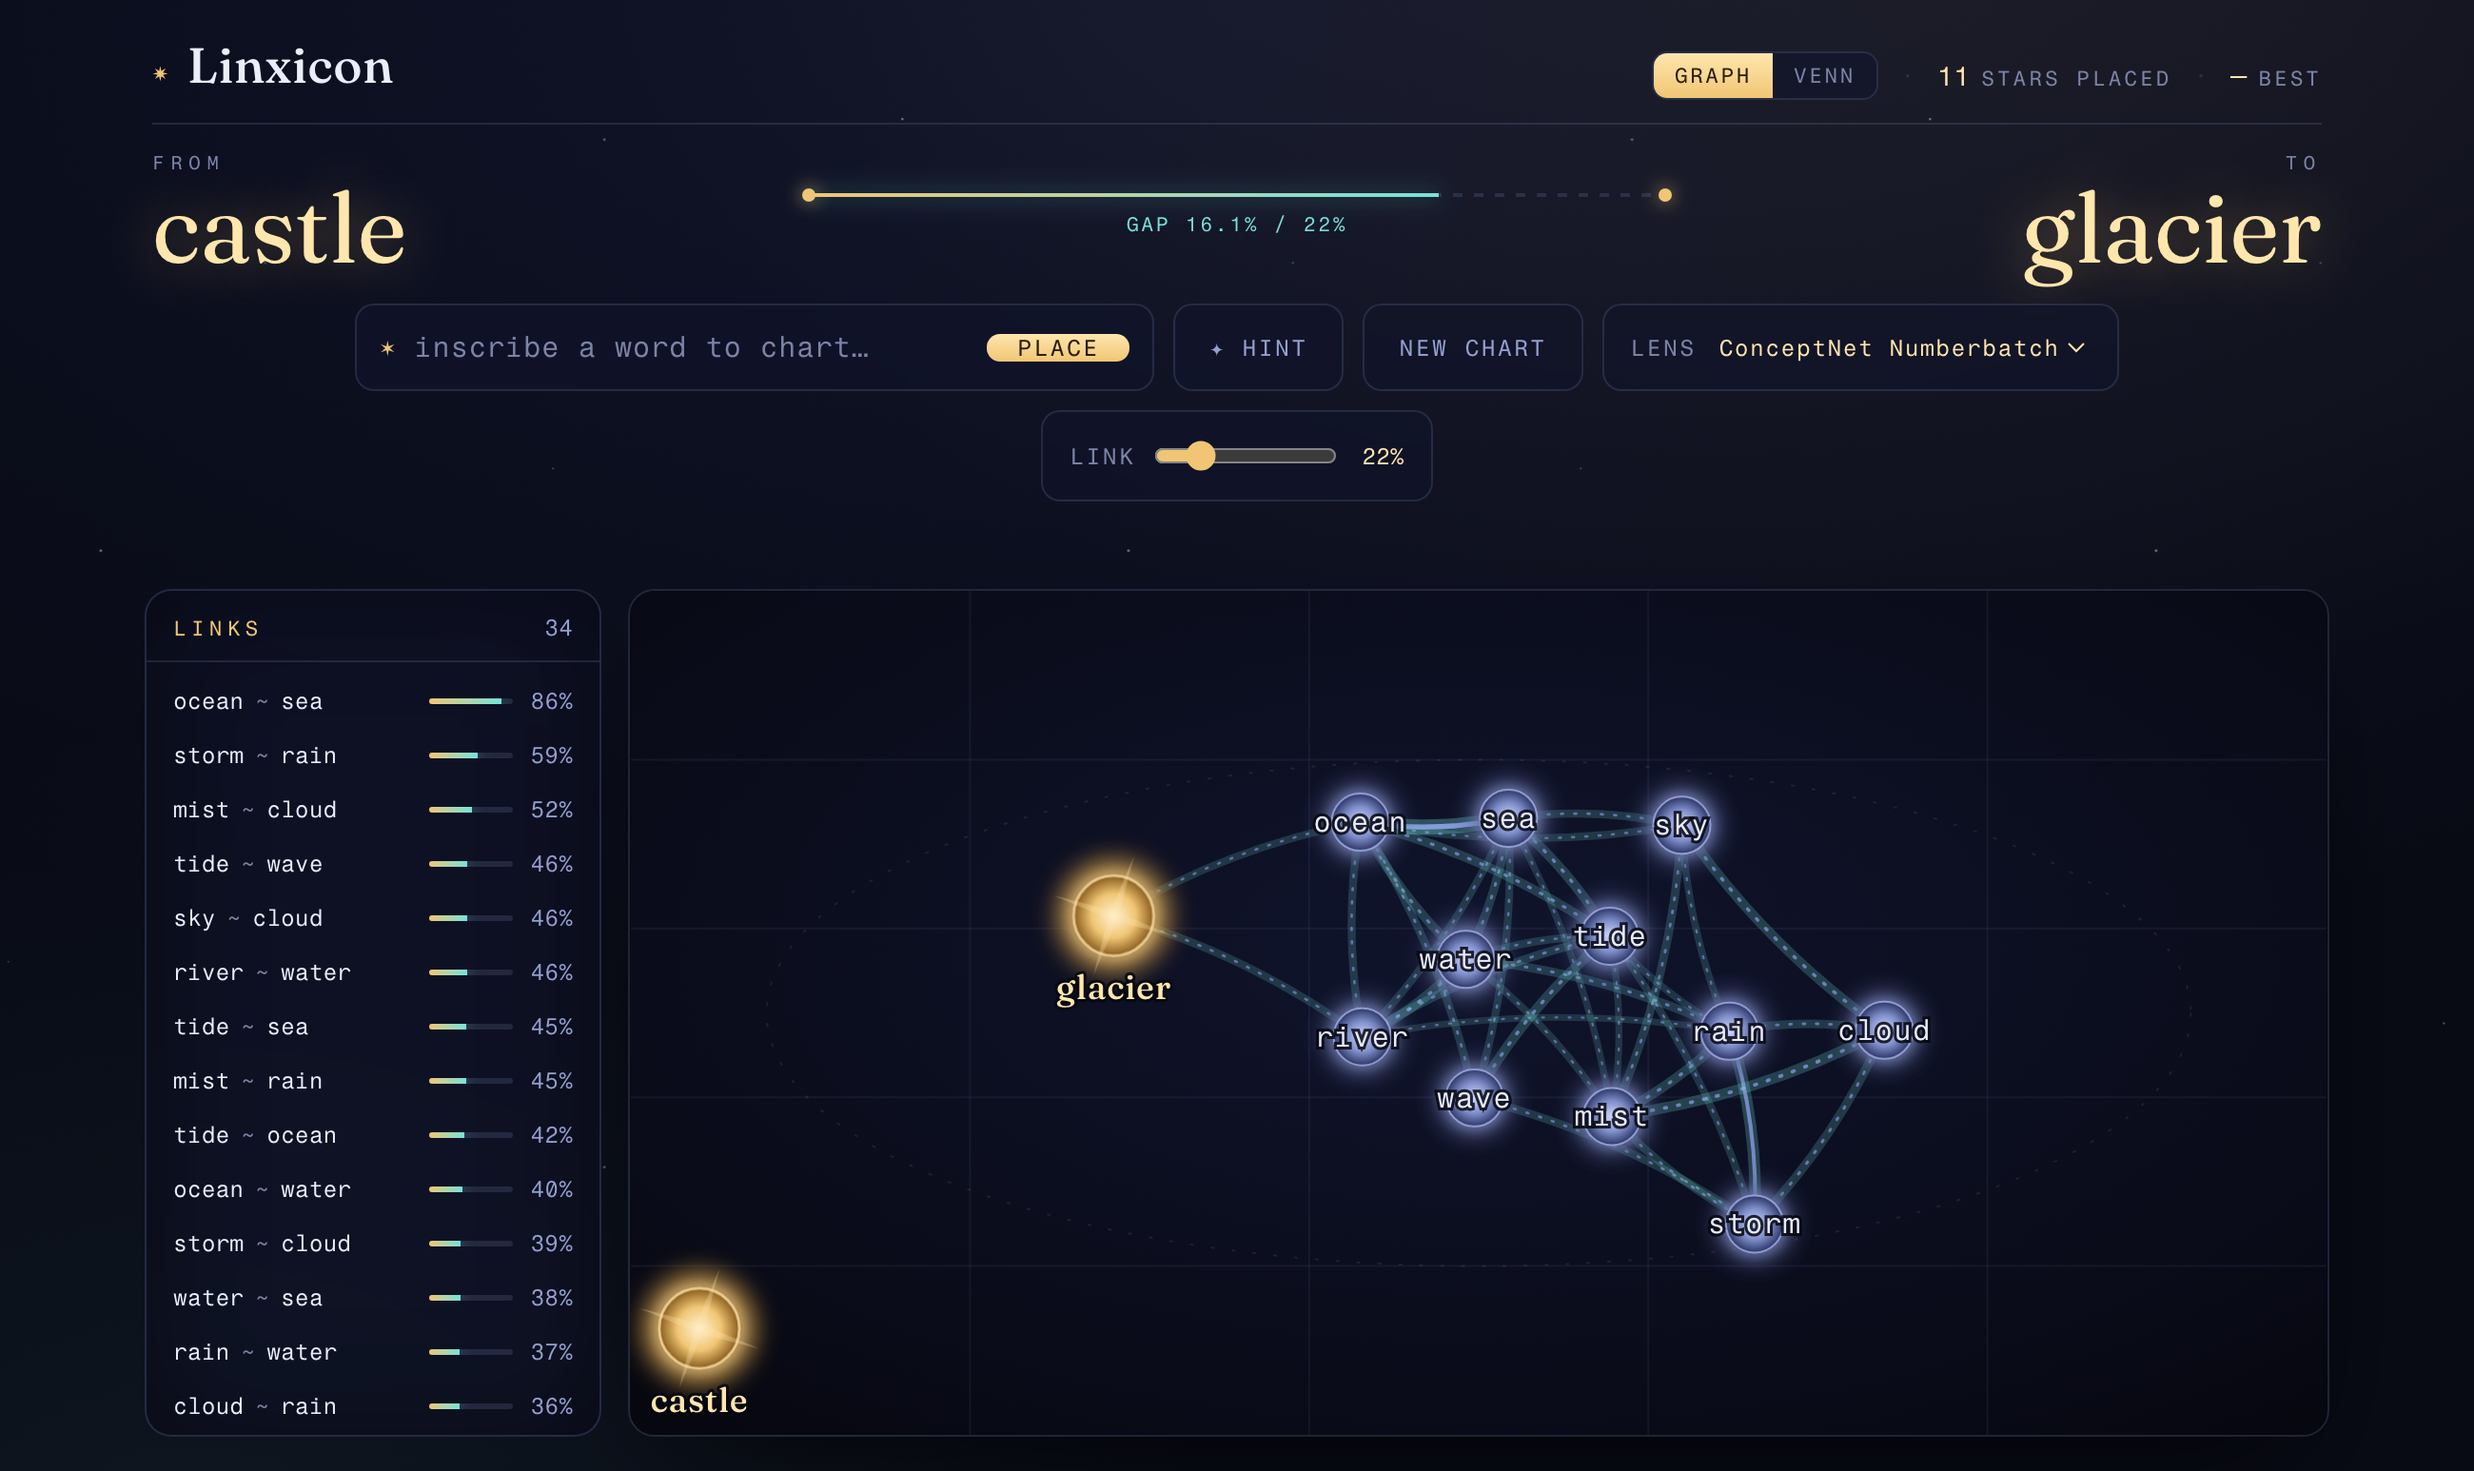
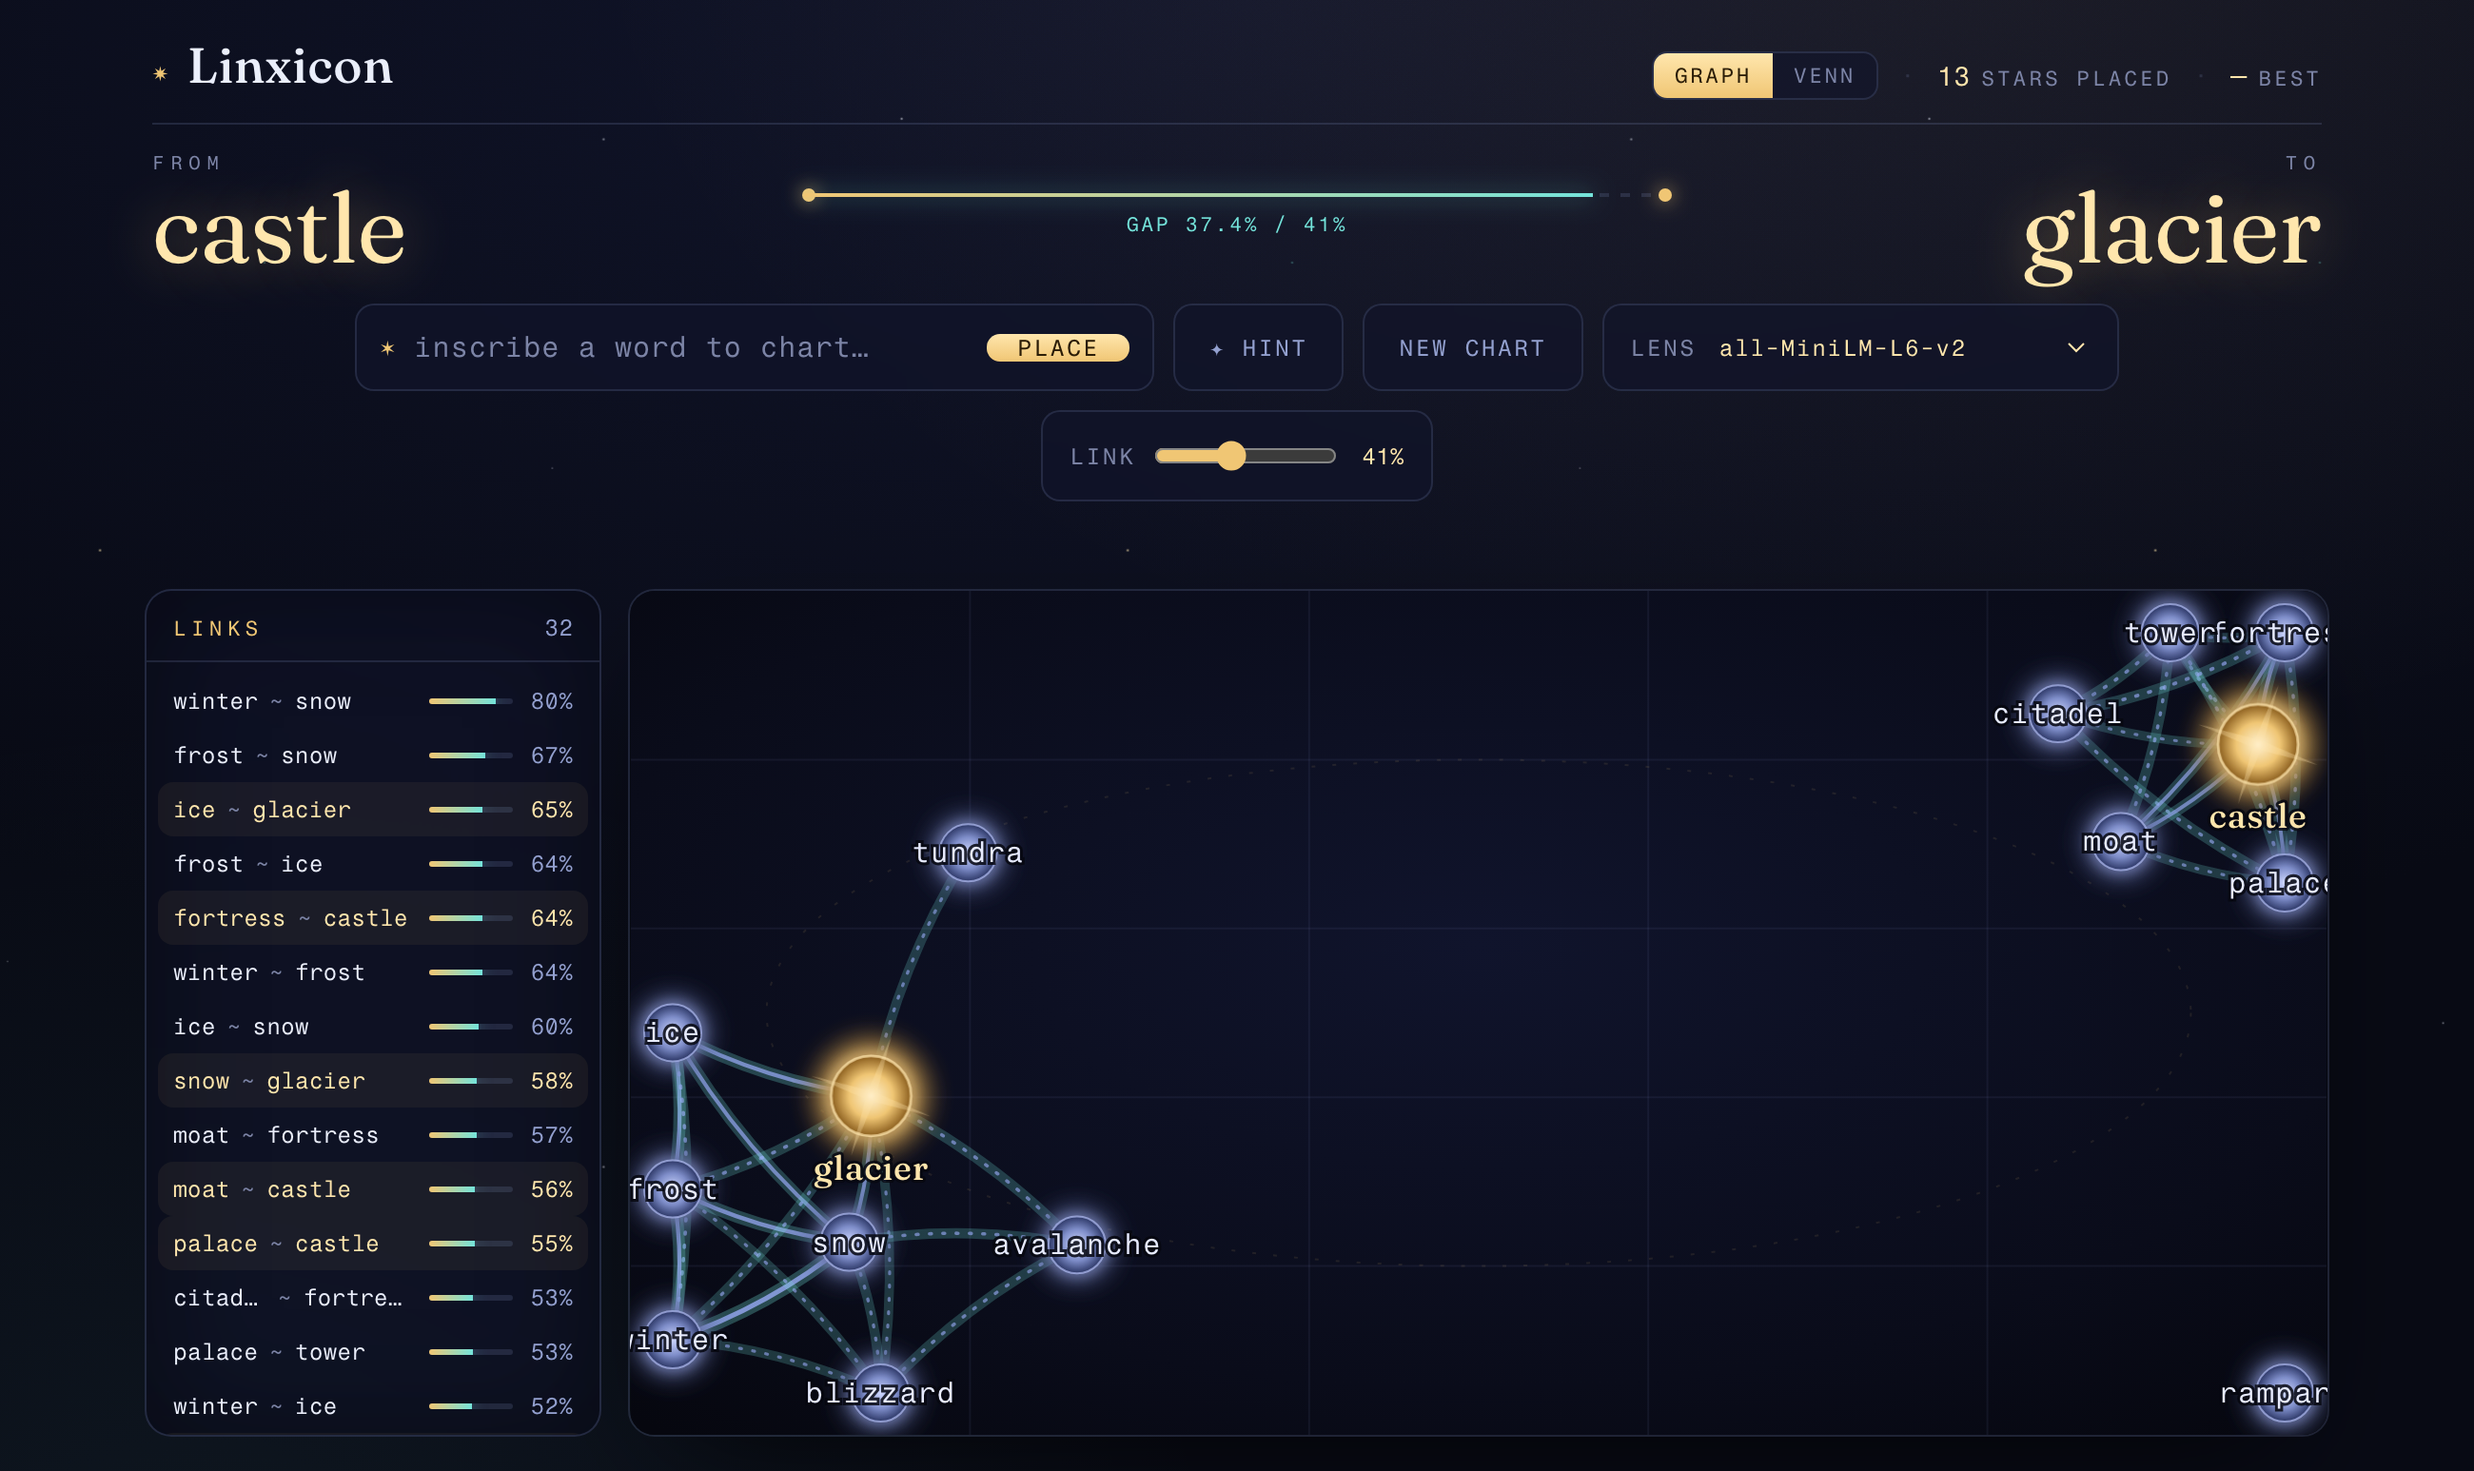
docs: regenerate screenshots on MiniLM showing real connections at 0.41
The previous shots were captured under the old Numberbatch 0.41 default, which
rarely links — boards looked disconnected. Recapture on MiniLM (which clears 0.41)
with connected castle/glacier clusters, and note the per-lens behavior in the README.

diff --git a/README.md b/README.md
@@ -76,8 +76,9 @@ npm run build      # static build to dist/
   `/api/hint` (best bridging dictionary word between two anchors).
 - `src/lib/embeddings.ts` — client to that API, with an in-memory + IndexedDB vector
   cache (`src/lib/embedder.ts`).
-- `src/lib/models.ts` — per-model similarity thresholds (Numberbatch runs colder than
-  MiniLM); the UI can override these at runtime.
+- `src/lib/models.ts` — per-model connect thresholds (both default to 0.41); the UI's
+  `link %` slider overrides them at runtime. Note MiniLM links readily at 0.41, while
+  ConceptNet Numberbatch runs colder and rarely clears it — pick the lens accordingly.
 - `src/lib/game.ts` — Svelte store wiring everything together; persists stats and
   per-puzzle words to `localStorage` (`src/lib/stats.ts`, `src/lib/savedGames.ts`).
 - `src/components/` — `Graph.svelte` (constellation), `VennBoard.svelte` (Euler cloud),
